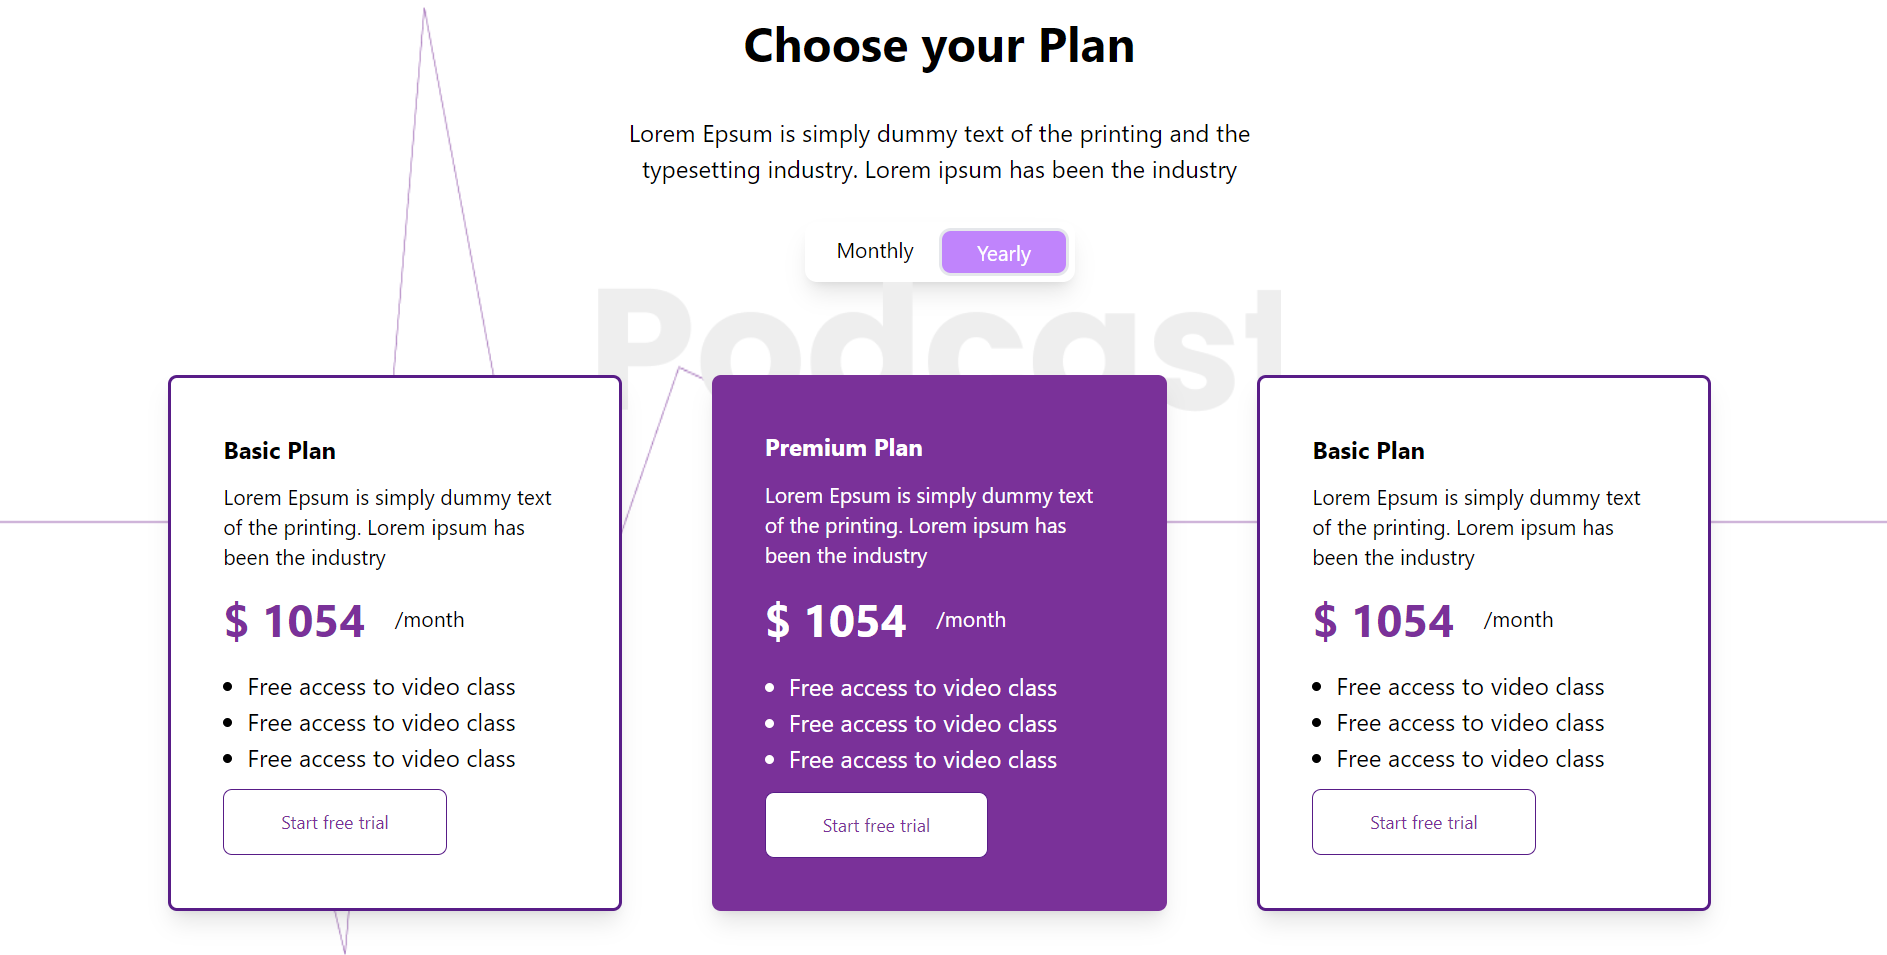
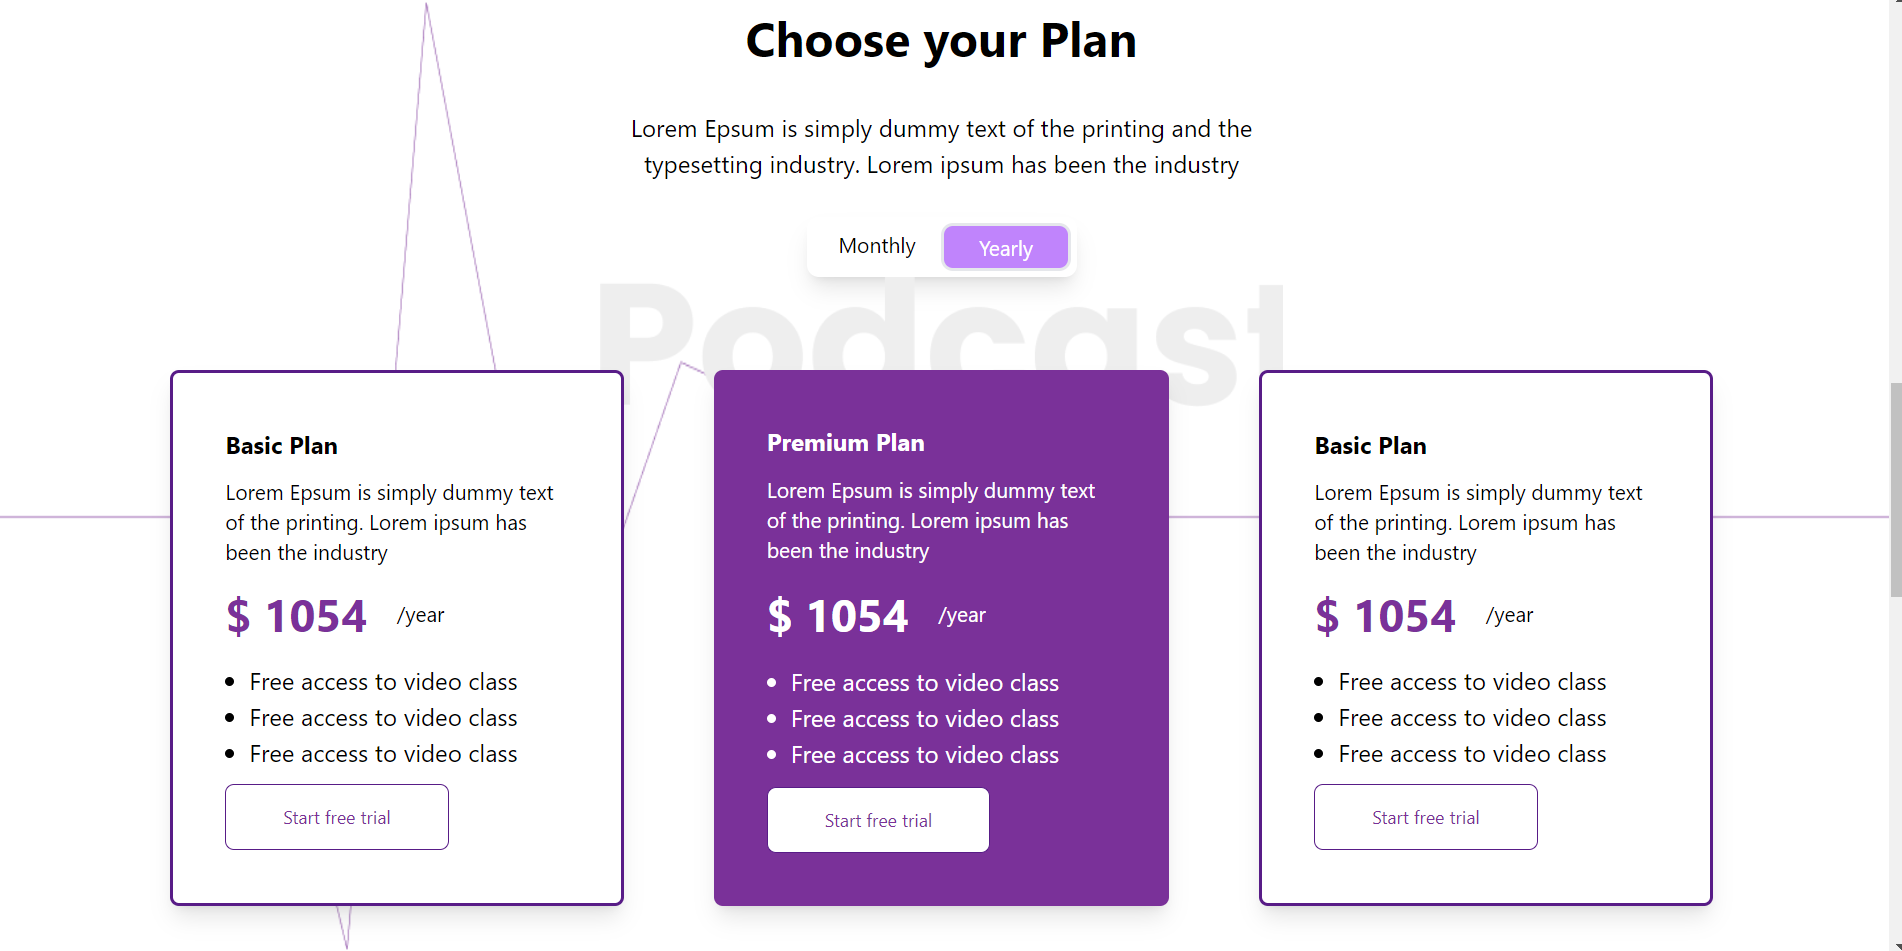
added toggle

diff --git a/accel-app/src/Components/ChoosePlan.js b/accel-app/src/Components/ChoosePlan.js
@@ -6,13 +6,16 @@ import LineImage from '../utility/images/LineImage.png'
 const ChoosePlan = () => {
   const [isMonthly, setIsMonthly] = useState(true);
   const [value, setValue] = useState("54")
+  const [planMonth, setPlanMonth] = useState("month")
   const handleToggleYearly = () => {
     setIsMonthly(false);
     setValue("1054")
+    setPlanMonth("year")
   }
   const handleToggleMonthly= () => {
     setIsMonthly(true);
     setValue("54")
+    setPlanMonth("month")
   }
   return (
     <div className='flex flex-col items-center mt-[76px]' style={{backgroundImage:`url(${LineImage})`, backgroundSize: "100% 100%"}}>
@@ -34,9 +37,9 @@ const ChoosePlan = () => {
             <div className='flex justify-end items-end items-end w-full'><img src={podcast} className='right-0.5'></img></div>
         </div>
         <div className='w-full flex flex-row justify-center items-center mt-[50px]'>
-            <PlanCard classes={"w-[303px] h-[357px] p-[35px] m-[30px] bg-white border-[2px] border-purple-900 p-3 rounded-md flex flex-col justify-between shadow-lg"} planType={"Basic"} btnClass={"purpleColor w-[149px] h-[44px] rounded-md text-[12px] border-[1px] border-purple-900"} textColor={"purpleColor text-[30px] font-bold"} value={value}/>
-            <PlanCard classes={"w-[303px] h-[357px] p-[35px] m-[30px] ghostPurple p-3 rounded-md flex flex-col justify-between whiteColor shadow-lg"} planType={"Premium"} btnClass={"purpleColor w-[149px] h-[44px] rounded-md text-[12px] border-[1px] border-purple-900 bg-white"} textColor={"text-[30px] font-bold"} value={value}/>
-            <PlanCard classes={"w-[303px] h-[357px] p-[35px] m-[30px] bg-white border-[2px] border-purple-900 p-3 rounded-md flex flex-col justify-between shadow-lg"} planType={"Basic"} btnClass={"purpleColor w-[149px] h-[44px] rounded-md text-[12px] border-[1px] border-purple-900"} textColor={"purpleColor text-[30px] font-bold"} value={value}/>
+            <PlanCard classes={"w-[303px] h-[357px] p-[35px] m-[30px] bg-white border-[2px] border-purple-900 p-3 rounded-md flex flex-col justify-between shadow-lg"} planType={"Basic"} btnClass={"purpleColor w-[149px] h-[44px] rounded-md text-[12px] border-[1px] border-purple-900"} textColor={"purpleColor text-[30px] font-bold"} value={value} planMonth={planMonth}/>
+            <PlanCard classes={"w-[303px] h-[357px] p-[35px] m-[30px] ghostPurple p-3 rounded-md flex flex-col justify-between whiteColor shadow-lg"} planType={"Premium"} btnClass={"purpleColor w-[149px] h-[44px] rounded-md text-[12px] border-[1px] border-purple-900 bg-white"} textColor={"text-[30px] font-bold"} value={value} planMonth={planMonth}/>
+            <PlanCard classes={"w-[303px] h-[357px] p-[35px] m-[30px] bg-white border-[2px] border-purple-900 p-3 rounded-md flex flex-col justify-between shadow-lg"} planType={"Basic"} btnClass={"purpleColor w-[149px] h-[44px] rounded-md text-[12px] border-[1px] border-purple-900"} textColor={"purpleColor text-[30px] font-bold"} value={value} planMonth={planMonth}/>
         </div>
     </div>
   )

diff --git a/accel-app/src/Components/PlanCard.js b/accel-app/src/Components/PlanCard.js
@@ -1,13 +1,13 @@
 import React from 'react'
 
-const PlanCard = ({classes, planType, btnClass, textColor, value}) => {
+const PlanCard = ({classes, planType, btnClass, textColor, value, planMonth}) => {
   return (
     <div className={classes}>
         <h2 className='font-bold'>{planType} Plan</h2>
         <p className="text-sm">Lorem Epsum is simply dummy text of the printing. Lorem ipsum has been the industry</p>
         <div className='flex flex-row'>
             <h2 className={textColor}>{`$ ${value}`}</h2>
-            <p className='mt-[12px] ml-5 text-sm'>/month</p>
+            <p className='mt-[12px] ml-5 text-sm'>/{planMonth}</p>
         </div>
         <ul className='list-disc ml-4'>
             <li>Free access to video class</li>
